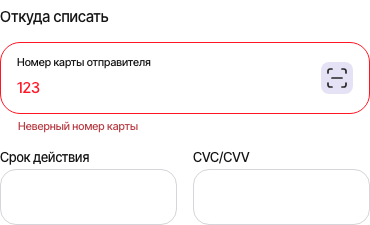
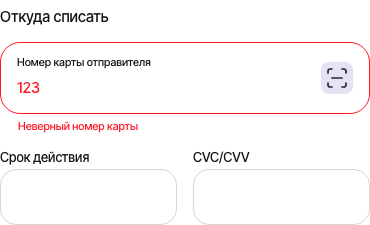
Match sender error caption color to red border

Changed region(s): [[0.0297, 0.5289, 0.3865, 0.5911]]

diff --git a/src/styles.css b/src/styles.css
@@ -1266,7 +1266,7 @@ body:has(.card-transfer) .home-indicator { height:calc(32px + env(safe-area-inse
 .guest-inline-source .guest-sender-field:has(input[aria-invalid=true]) input { color:#ff1524; }
 .guest-inline-source .guest-sender-field:has(input[aria-invalid=true]) label { color:#141414; }
 .guest-inline-source .guest-sender-field:has(input[aria-invalid=true]) .scan-card { background:#e5e2f6; }
-.guest-inline-source #guest-source-error { margin:4px 18px 0; color:#b83d45; font:500 11px/16px 'Inter Tight',sans-serif; }
+.guest-inline-source #guest-source-error { margin:4px 18px 0; color:#ff1524; font:500 11px/16px 'Inter Tight',sans-serif; }
 
 .card-details-row input[data-expiry][aria-invalid=true] { border-color:#ff1524; color:#ff1524; }
 .card-details-row .expiry-field-error { display:block; margin:4px 2px 0; color:#ff1524; font:500 11px/16px 'Inter Tight',sans-serif; }
